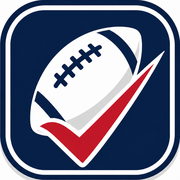
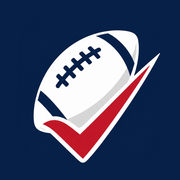
Installable on iOS and Android, share a week's picks, download menu
- Icons: full-bleed apple-touch-icon (iOS rounds it itself; the old one had
  its own frame and white corners) and maskable Android icons with the art
  inside the safe zone. Manifest gains a 1024 icon, install screenshots
  and a Standings shortcut; Chrome reports no installability errors.
- iOS: Install button explains Share -> Add to Home Screen (no prompt
  exists there). viewport-fit=cover + safe-area padding for notch/home bar.
- #playoffs / #standings / #rules open that tab (home-screen shortcuts).
- Removed the tap highlight on mobile, with a subtle press effect instead.
- "Board" menu is now a download icon with the same options.
- Share button: image of the current week's picks, or a team's season in
  By team view; uses the share sheet, falls back to a download.

Claude-Session: https://claude.ai/code/session_01CGqN2MKYgdusEcCG1CyiMi

diff --git a/index.html b/index.html
@@ -2,7 +2,7 @@
 <html lang="en">
 <head>
 <meta charset="utf-8">
-<meta name="viewport" content="width=device-width, initial-scale=1">
+<meta name="viewport" content="width=device-width, initial-scale=1, viewport-fit=cover">
 <title>Bracketeer — 2026 NFL Season Board</title>
 <meta name="description" content="Pick every game of the 2026 NFL season, get real NFL tiebreakers applied to the standings, and run your own playoff bracket.">
 <meta name="theme-color" content="#FFFFFF">
@@ -45,6 +45,10 @@
   --body:'Inter',-apple-system,BlinkMacSystemFont,'Segoe UI',Roboto,sans-serif;
 }
 *{box-sizing:border-box}
+/* no grey/blue flash on tap in mobile browsers; :active below gives feedback instead */
+html{-webkit-tap-highlight-color:transparent;-webkit-text-size-adjust:100%}
+button,summary,a,[role="tab"]{-webkit-tap-highlight-color:transparent;touch-action:manipulation}
+button,summary{-webkit-touch-callout:none;user-select:none;-webkit-user-select:none}
 [hidden]{display:none!important}
 html,body{margin:0;padding:0}
 body{
@@ -52,11 +56,12 @@ body{
   -webkit-font-smoothing:antialiased;min-height:100vh;font-variant-numeric:tabular-nums;
 }
 button{font-family:inherit}
-.wrap{max-width:1240px;margin:0 auto;padding:0 16px 80px}
+.wrap{max-width:1240px;margin:0 auto;padding:0 max(16px, env(safe-area-inset-right)) calc(80px + env(safe-area-inset-bottom)) max(16px, env(safe-area-inset-left))}
 
 /* ---------- header ---------- */
 .topbar{position:sticky;top:0;z-index:20;background:rgba(255,255,255,.92);backdrop-filter:saturate(1.4) blur(8px);border-bottom:1px solid var(--line)}
-.topbar .in{max-width:1240px;margin:0 auto;padding:10px 16px;display:flex;align-items:center;gap:12px}
+.topbar{padding-top:env(safe-area-inset-top)}
+.topbar .in{max-width:1240px;margin:0 auto;padding:10px max(16px, env(safe-area-inset-right)) 10px max(16px, env(safe-area-inset-left));display:flex;align-items:center;gap:12px}
 .mark{width:34px;height:34px;border-radius:8px;flex:none}
 h1{font-family:var(--display);font-weight:700;font-size:26px;letter-spacing:.03em;text-transform:uppercase;margin:0;line-height:1}
 h1 .yr{color:var(--accent)}
@@ -76,6 +81,11 @@ nav.tabs{display:flex;gap:2px;margin-left:18px;background:var(--surface-2);paddi
   padding:6px 12px;border-radius:var(--radius-sm);cursor:pointer;transition:.12s;white-space:nowrap;
 }
 .btn:hover{color:var(--ink);background:var(--surface)}
+.btn:active,.tab:active,.notch:active,.pickbtn:active,.mrow:active,.seg button:active,.teampick button:active{transform:scale(.97)}
+.btn.icon{display:inline-flex;align-items:center;justify-content:center;width:36px;height:34px;padding:0}
+.btn.share{display:inline-flex;align-items:center;gap:6px}
+/* keep taps from leaving a focus ring behind; keyboard focus still shows */
+:focus:not(:focus-visible){outline:none}
 .btn:focus-visible,.tab:focus-visible,.notch:focus-visible,.pickbtn:focus-visible,.tiebtn:focus-visible,.mrow:focus-visible{outline:2px solid var(--accent);outline-offset:2px}
 .btn.primary{background:var(--accent);border-color:var(--accent);color:#fff}
 .btn.primary:hover{background:var(--accent-ink)}
@@ -405,8 +415,12 @@ tr.out .logo{opacity:.5}
 .modal[hidden]{display:none}
 .sheet{background:#fff;border-radius:14px;max-width:420px;width:100%;padding:22px 24px 20px;box-shadow:var(--shadow-lg)}
 .sheet h4{font-size:18px;font-weight:700;margin:0 0 8px}
-.sheet p{font-size:14px;color:var(--ink-2);margin:0 0 18px;line-height:1.5}
+.sheet p,.sheet .mbody{font-size:14px;color:var(--ink-2);margin:0 0 18px;line-height:1.5}
+.sheet .mbody .howto{margin:0}
 .sheet .mact{display:flex;gap:8px;justify-content:flex-end;flex-wrap:wrap}
+.sheet .howto{margin:0 0 18px;padding:0;list-style:none;display:flex;flex-direction:column;gap:10px}
+.sheet .howto li{display:flex;align-items:center;gap:10px;font-size:14px;color:var(--ink-2)}
+.sheet .howto i{flex:none;width:30px;height:30px;border-radius:8px;background:var(--surface-2);display:inline-flex;align-items:center;justify-content:center;font-style:normal;color:var(--accent)}
 .sheet .btn.danger{background:var(--bad);border-color:var(--bad);color:#fff}
 
 /* ---------- toast ---------- */
@@ -476,9 +490,11 @@ body.noads .adrail,body.noads .adinline{display:none!important}
       <button class="tab" role="tab" data-tab="rules" aria-selected="false">Rules</button>
     </nav>
     <div class="headmeta">
-      <button class="btn primary" id="btnInstall" hidden>Install app</button>
+      <button class="btn primary" id="btnInstall" hidden>Install</button>
       <details class="menu" id="menu">
-        <summary class="btn" aria-label="Board options">Board ▾</summary>
+        <summary class="btn icon" aria-label="Save, load or clear picks" title="Save, load or clear picks">
+          <svg width="18" height="18" viewBox="0 0 24 24" fill="none" stroke="currentColor" stroke-width="2" stroke-linecap="round" stroke-linejoin="round" aria-hidden="true"><path d="M12 3v12"/><path d="m7 10 5 5 5-5"/><path d="M5 21h14"/></svg>
+        </summary>
         <div class="pop">
           <button id="btnExport">Save picks to file</button>
           <button id="btnImport">Load picks from file</button>
@@ -533,6 +549,9 @@ body.noads .adrail,body.noads .adinline{display:none!important}
           <button class="btn ghost" id="btnHome" title="Pick the favourite in every game left this week">Favorites</button>
           <button class="btn ghost" id="btnRand" title="Coin flip every game left this week">Random</button>
           <button class="btn ghost" id="btnClearWk" title="Clear your picks for unplayed games this week">Clear</button>
+          <button class="btn ghost share" id="btnShareWk" title="Share an image of these picks">
+            <svg width="15" height="15" viewBox="0 0 24 24" fill="none" stroke="currentColor" stroke-width="2" stroke-linecap="round" stroke-linejoin="round" aria-hidden="true"><path d="M12 15V3"/><path d="m7 8 5-5 5 5"/><path d="M5 12v7a2 2 0 0 0 2 2h10a2 2 0 0 0 2-2v-7"/></svg>
+            <span>Share</span></button>
         </div>
       </div>
       <p class="wkmeta" id="wkMeta"></p>
@@ -651,7 +670,7 @@ body.noads .adrail,body.noads .adinline{display:none!important}
 <div class="modal" id="modal" hidden role="dialog" aria-modal="true" aria-labelledby="mTitle">
   <div class="sheet">
     <h4 id="mTitle"></h4>
-    <p id="mBody"></p>
+    <div id="mBody" class="mbody"></div>
     <div class="mact">
       <button class="btn" id="mNo"></button>
       <button class="btn danger" id="mYes"></button>
@@ -1755,13 +1774,17 @@ function renderPlayoffs(){
 /* ==========================================================
    EVENTS
    ========================================================== */
+function showTab(name, push){
+  if(!document.getElementById('panel-' + name)) name = 'picks';
+  document.querySelectorAll('.tab').forEach(x=>x.setAttribute('aria-selected', x.dataset.tab === name));
+  document.querySelectorAll('.panel').forEach(p=>p.classList.toggle('on', p.id === 'panel-' + name));
+  if(push) history.replaceState(null, '', name === 'picks' ? location.pathname + location.search : '#' + name);
+}
 document.querySelectorAll('.tab').forEach(b=>{
-  b.addEventListener('click', ()=>{
-    document.querySelectorAll('.tab').forEach(x=>x.setAttribute('aria-selected', x===b));
-    document.querySelectorAll('.panel').forEach(p=>p.classList.toggle('on', p.id==='panel-'+b.dataset.tab));
-    window.scrollTo({top:0});
-  });
+  b.addEventListener('click', ()=>{ showTab(b.dataset.tab, true); window.scrollTo({top:0}); });
 });
+if(location.hash) showTab(location.hash.slice(1));
+window.addEventListener('hashchange', ()=> showTab(location.hash.slice(1)));
 function goWeek(w){
   S.week = Math.max(1, Math.min(WEEKS, w)); userMovedWeek = true;
   renderRail(); renderWeek(); store.write();
@@ -1867,13 +1890,16 @@ $('#fileIn').addEventListener('change', e=>{
    DIALOG + TOAST
    ========================================================== */
 let askResolve = null;
-function ask({title, body, yes, no}){
+function ask({title, body, html, yes, no}){
   $('#mTitle').textContent = title;
-  $('#mBody').textContent = body;
+  if(html){ $('#mBody').innerHTML = html; } else { $('#mBody').textContent = body; }
   $('#mYes').textContent = yes || 'Confirm';
   $('#mNo').textContent  = no  || 'Cancel';
+  $('#mNo').hidden = no === null;
+  $('#mYes').classList.toggle('danger', !html);
+  $('#mYes').classList.toggle('primary', !!html);
   $('#modal').hidden = false;
-  $('#mNo').focus();
+  (no === null ? $('#mYes') : $('#mNo')).focus();
   return new Promise(res => { askResolve = res; });
 }
 function closeAsk(v){
@@ -2145,20 +2171,198 @@ if(navigator.canShare){
 }
 
 /* ==========================================================
+   SHAREABLE PICKS IMAGE (one week, or one team's season)
+   Portrait, sized for a phone screen / story. Finished games show the final
+   score; everything else shows the user's pick.
+   ========================================================== */
+const shortTime = d => d.toLocaleString(undefined, {weekday:'short', hour:'numeric', minute:'2-digit'});
+
+function pickRowMeta(g, withWeek){
+  const res = RES[g.i], k = kickOf(g), parts = [];
+  if(withWeek) parts.push('WEEK ' + g.w);
+  if(isFinal(g.i)) parts.push('FINAL' + (res.ot ? '/OT' : ''));
+  else if(k) parts.push((withWeek ? fmtShort(k) + ' · ' : '') + shortTime(k));
+  const ln = !isFinal(g.i) && res && res.line;
+  if(ln) parts.push(ln.fav ? `${ln.fav === 'a' ? g.a : g.h} −${ln.sp}` : 'PICK ’EM');
+  if(g.site) parts.push(g.site);
+  return parts.join('  ·  ').toUpperCase();
+}
+
+/* one team half of a matchup row. state: win | out | plain; score shown for finals */
+function pickPill(c, x, y, w, h, t, state, score, right){
+  c.save();
+  rr(c, x, y, w, h, 14);
+  c.fillStyle = state === 'win' ? IMG.soft : IMG.surface; c.fill();
+  if(state === 'win'){ c.strokeStyle = IMG.accent; c.lineWidth = 3; rr(c, x+1.5, y+1.5, w-3, h-3, 13); c.stroke(); }
+  c.globalAlpha = state === 'out' ? 0.42 : 1;
+  const bx = right ? x + w - 38 : x + 38;
+  drawLogo(c, t, bx, y + h/2, 42);
+  const nx = right ? bx - 32 : bx + 32;
+  c.textAlign = right ? 'right' : 'left';
+  c.fillStyle = state === 'win' ? IMG.accentInk : IMG.ink;
+  c.font = '700 32px "Barlow Condensed", sans-serif'; track(c, 0.4);
+  const scoreW = score != null ? 60 : 0;
+  c.fillText(fitText(c, TEAMS[t].n, w - 110 - scoreW), nx, y + h/2 + 2);
+  track(c, 0); c.font = '500 17px Inter, sans-serif'; c.fillStyle = IMG.faint;
+  c.fillText(fmtRec(R[t].ov), nx, y + h/2 + 24);
+  if(score != null){
+    c.textAlign = right ? 'left' : 'right';
+    c.font = '700 34px Inter, sans-serif';
+    c.fillStyle = state === 'out' ? IMG.faint : IMG.ink;
+    c.fillText(String(score), right ? x + 20 : x + w - 20, y + h/2 + 12);
+  }
+  c.restore();
+}
+
+async function buildPicksImage({title, sub, games, withWeek, byes}){
+  try{ await document.fonts.ready; }catch(e){}
+  await loadLogos();
+  const W = 1080, P = 56, ROW = 118, BYE = 58, s = 2;
+  const items = [];
+  if(byes){ for(let w = 1; w <= WEEKS; w++){ const g = games.find(x => x.w === w); items.push(g ? {g} : {bye:w}); } }
+  else games.forEach(g => items.push({g}));
+  const H = 300 + items.reduce((n, it) => n + (it.bye ? BYE : ROW), 0) + 120;
+
+  const cv = document.createElement('canvas');
+  cv.width = W*s; cv.height = H*s;
+  const c = cv.getContext('2d'); c.scale(s, s);
+  c.fillStyle = IMG.bg; c.fillRect(0, 0, W, H);
+  c.fillStyle = IMG.accent; c.fillRect(0, 0, W, 8);
+
+  // header
+  c.textAlign = 'left';
+  c.font = '700 34px "Barlow Condensed", sans-serif'; track(c, 1.5);
+  c.fillStyle = IMG.ink; c.fillText('BRACKET', P, 74);
+  const bw = c.measureText('BRACKET').width;
+  c.fillStyle = IMG.accent; c.fillText('EER', P + bw, 74);
+  c.fillStyle = IMG.ink; c.font = '700 92px "Barlow Condensed", sans-serif'; track(c, 1.5);
+  c.fillText(fitText(c, title.toUpperCase(), W - 2*P), P, 170);
+  track(c, 0); c.fillStyle = IMG.dim; c.font = '500 24px Inter, sans-serif';
+  c.fillText(sub, P, 214);
+  c.fillStyle = IMG.line; c.fillRect(P, 248, W - 2*P, 1);
+
+  // rows
+  let y = 278;
+  const colW = (W - 2*P - 64) / 2;
+  items.forEach(it => {
+    if(it.bye){
+      c.fillStyle = IMG.faint; c.font = '600 18px Inter, sans-serif'; track(c, 1.4);
+      c.fillText(`WEEK ${it.bye}  ·  BYE`, P + 4, y + 34); track(c, 0);
+      y += BYE; return;
+    }
+    const g = it.g, res = RES[g.i], fin = isFinal(g.i);
+    c.fillStyle = IMG.faint; c.font = '600 16px Inter, sans-serif'; track(c, 1.2); c.textAlign = 'left';
+    c.fillText(pickRowMeta(g, withWeek), P + 4, y + 16); track(c, 0);
+    const top = y + 28, h = 76;
+    let sa, sh;
+    if(fin){
+      sa = res.win === 'a' ? 'win' : res.win === 'h' ? 'out' : 'plain';
+      sh = res.win === 'h' ? 'win' : res.win === 'a' ? 'out' : 'plain';
+      // a final isn't the user's pick: show the winner plainly, not as a selection
+      if(sa === 'win') sa = 'plain'; if(sh === 'win') sh = 'plain';
+    }else{
+      const p = S.picks[g.i];
+      sa = p === 'a' ? 'win' : p ? 'out' : 'plain';
+      sh = p === 'h' ? 'win' : p ? 'out' : 'plain';
+      if(p === 't'){ sa = 'plain'; sh = 'plain'; }
+    }
+    pickPill(c, P, top, colW, h, g.a, sa, fin ? res.as : null, false);
+    pickPill(c, W - P - colW, top, colW, h, g.h, sh, fin ? res.hs : null, true);
+    c.textAlign = 'center';
+    const tie = !fin && S.picks[g.i] === 't';
+    c.fillStyle = tie ? IMG.accent : IMG.faint;
+    c.font = tie ? '700 20px Inter, sans-serif' : '600 20px Inter, sans-serif';
+    c.fillText(tie ? 'TIE' : (g.site ? 'vs' : '@'), W/2, top + h/2 + 7);
+    c.textAlign = 'left';
+    y += ROW;
+  });
+
+  // footer
+  y += 20;
+  c.fillStyle = IMG.line; c.fillRect(P, y, W - 2*P, 1);
+  c.fillStyle = IMG.faint; c.font = '500 16px Inter, sans-serif'; track(c, 1.2);
+  c.fillText('MADE WITH BRACKETEER', P, y + 40);
+  c.textAlign = 'right'; c.fillText('DATA: NFLVERSE (CC BY 4.0)', W - P, y + 40);
+  track(c, 0); c.textAlign = 'left';
+  return cv;
+}
+
+/* share sheet where the browser supports sharing files, otherwise download */
+async function shareOrSave(cv, filename, title){
+  const blob = await canvasBlob(cv);
+  const file = new File([blob], filename, {type:'image/png'});
+  if(navigator.canShare && navigator.canShare({files:[file]})){
+    try{ await navigator.share({files:[file], title}); return; }
+    catch(e){ if(e && e.name === 'AbortError') return; }
+  }
+  const a = document.createElement('a');
+  a.href = URL.createObjectURL(blob); a.download = filename; a.click();
+  setTimeout(()=>URL.revokeObjectURL(a.href), 4000);
+  toast('Image saved.');
+}
+
+$('#btnShareWk').addEventListener('click', async ()=>{
+  const b = $('#btnShareWk'); b.disabled = true;
+  try{
+    if(S.mode === 'team'){
+      const t = S.team, gs = GAMES.filter(g => g.a === t || g.h === t);
+      const seed = VIEW.conf[TEAMS[t].cf].seeds.indexOf(t);
+      const cv = await buildPicksImage({
+        title: `${TEAMS[t].c} ${TEAMS[t].n}`,
+        sub: `My 2026 picks · Projected ${fmtRec(R[t].ov)} · ${seed > -1 ? TEAMS[t].cf + ' ' + (seed+1) + ' seed' : 'Out of the playoffs'}`,
+        games: gs, withWeek: true, byes: true
+      });
+      await shareOrSave(cv, `bracketeer-${t.toLowerCase()}-2026.png`, `My ${TEAMS[t].n} picks`);
+    }else{
+      const w = S.week, gs = byWeek[w].slice();
+      if(gs.every(g => kickOf(g))) gs.sort((x,y) => kickOf(x) - kickOf(y) || x.i - y.i);
+      const open = gs.filter(g => !isFinal(g.i)), picked = open.filter(g => S.picks[g.i]).length;
+      const kicks = gs.map(kickOf).filter(Boolean).sort((a,b)=>a-b);
+      const range = kicks.length ? `${fmtShort(kicks[0])} – ${fmtShort(kicks[kicks.length-1])} · ` : '';
+      const cv = await buildPicksImage({
+        title: `Week ${w} picks`,
+        sub: range + (open.length ? `${picked} of ${open.length} picked` : 'All games final'),
+        games: gs, withWeek: false
+      });
+      await shareOrSave(cv, `bracketeer-week-${w}.png`, `My Week ${w} picks`);
+    }
+  }finally{ b.disabled = false; }
+});
+
+/* ==========================================================
    PWA
    ========================================================== */
 if('serviceWorker' in navigator && location.protocol.startsWith('http')){
   window.addEventListener('load', ()=>navigator.serviceWorker.register('sw.js').catch(()=>{}));
 }
+/* Android/Chrome/Edge hand us an install prompt. iOS never does (every iOS
+   browser installs through the Share menu), so there the button shows how. */
 let installEvt = null;
+const isIOS = /iphone|ipad|ipod/i.test(navigator.userAgent) ||
+  (navigator.platform === 'MacIntel' && navigator.maxTouchPoints > 1);
+const isStandalone = matchMedia('(display-mode: standalone)').matches || navigator.standalone === true;
+if(isIOS && !isStandalone) $('#btnInstall').hidden = false;
 window.addEventListener('beforeinstallprompt', e=>{
   e.preventDefault(); installEvt = e; $('#btnInstall').hidden = false;
 });
+const SHARE_ICON = '<svg width="16" height="16" viewBox="0 0 24 24" fill="none" stroke="currentColor" stroke-width="2" stroke-linecap="round" stroke-linejoin="round"><path d="M12 15V3"/><path d="m7 8 5-5 5 5"/><path d="M5 12v7a2 2 0 0 0 2 2h10a2 2 0 0 0 2-2v-7"/></svg>';
+const PLUS_ICON = '<svg width="16" height="16" viewBox="0 0 24 24" fill="none" stroke="currentColor" stroke-width="2" stroke-linecap="round" stroke-linejoin="round"><rect x="3" y="3" width="18" height="18" rx="4"/><path d="M12 8v8M8 12h8"/></svg>';
 $('#btnInstall').addEventListener('click', async ()=>{
-  if(!installEvt) return;
-  installEvt.prompt();
-  await installEvt.userChoice;
-  installEvt = null; $('#btnInstall').hidden = true;
+  if(installEvt){
+    installEvt.prompt();
+    await installEvt.userChoice;
+    installEvt = null; $('#btnInstall').hidden = true;
+    return;
+  }
+  ask({
+    title: 'Add Bracketeer to your Home Screen',
+    html: `<ol class="howto">
+      <li><i>${SHARE_ICON}</i><span>Tap the <b>Share</b> button — at the bottom of Safari, or in the address bar in Chrome.</span></li>
+      <li><i>${PLUS_ICON}</i><span>Scroll down and tap <b>Add to Home Screen</b>.</span></li>
+      <li><i>✓</i><span>Tap <b>Add</b>. Bracketeer opens full-screen, like an app, and works offline.</span></li>
+    </ol>`,
+    yes: 'Got it', no: null
+  });
 });
 window.addEventListener('appinstalled', ()=>{ $('#btnInstall').hidden = true; toast('Installed. Look for Bracketeer on your home screen.'); });
 

diff --git a/sw.js b/sw.js
@@ -1,6 +1,6 @@
 /* Bracketeer — service worker.
    Bump VERSION whenever you change index.html so installed apps update. */
-const VERSION = 'v1.6.0';
+const VERSION = 'v1.7.0';
 const SHELL   = 'bracketeer-shell-'   + VERSION;
 const RUNTIME = 'bracketeer-runtime-' + VERSION;
 

diff --git a/README.md b/README.md
@@ -60,8 +60,25 @@ Everything uses relative paths, so it works from any subdirectory.
 1. Push this folder to a repo.
 2. Settings → Pages → Source: **Deploy from a branch**, branch `main`, folder `/ (root)`
    (or `/docs` if you put these files there).
-3. Open the published URL on Android in Chrome. You'll get an **Install app**
-   button in the header, or use Chrome's ⋮ → *Add to Home screen*.
+3. Open the published URL on a phone and tap **Install** in the header.
+
+## Installing as an app
+
+- **Android (Chrome, Edge, Samsung Internet):** **Install** opens the
+  browser's own install sheet, with screenshots from `icons/screenshots/`.
+  Android crops the icon to the device's shape using the maskable icons.
+- **iPhone / iPad:** iOS gives websites no install prompt, so **Install**
+  shows the two taps it takes: Share → *Add to Home Screen* (Safari, or Chrome
+  on iOS 16.4+). The home-screen icon is `icons/apple-touch-icon.png`,
+  full-bleed so iOS can round its corners.
+- Installed, it opens full-screen, respects the notch and home indicator, and
+  works offline. Long-press the icon on Android for *Playoff bracket* and
+  *Standings* shortcuts; `#playoffs`, `#standings` and `#rules` links open
+  those tabs directly.
+
+After changing icons, bump `VERSION` in `sw.js`. iOS caches home-screen icons
+hard, so an already-installed iPhone copy may need removing and re-adding to
+pick up a new icon.
 
 The service worker needs HTTPS, which GitHub Pages provides. Opening
 `index.html` straight off disk still works — you just don't get offline caching
@@ -80,7 +97,8 @@ The old caches get deleted on the next visit and the new files load.
 
 ## Using it
 
-**Games** — click a team to pick it. *Tie* sets a drawn game. Arrow keys move
+**Games** — click a team to pick it. **Share** makes an image of the week (or,
+in *By team*, that team's season) and opens the phone's share sheet. *Tie* sets a drawn game. Arrow keys move
 between weeks. *Favorites* and *Random* fill the unplayed games of a week in
 one go. Finished games show the final score and can't be changed.
 
@@ -103,7 +121,7 @@ system share sheet directly.
 
 ## Saving
 
-Picks save to `localStorage` automatically. **Board ▾ → Save picks to file** downloads a JSON copy —
+Picks save to `localStorage` automatically. the **download** button (top right) **→ Save picks to file** downloads a JSON copy —
 use that to move a board between devices, or before clearing. **Clear all picks** asks
 first and tells you how much you're about to lose.
 
